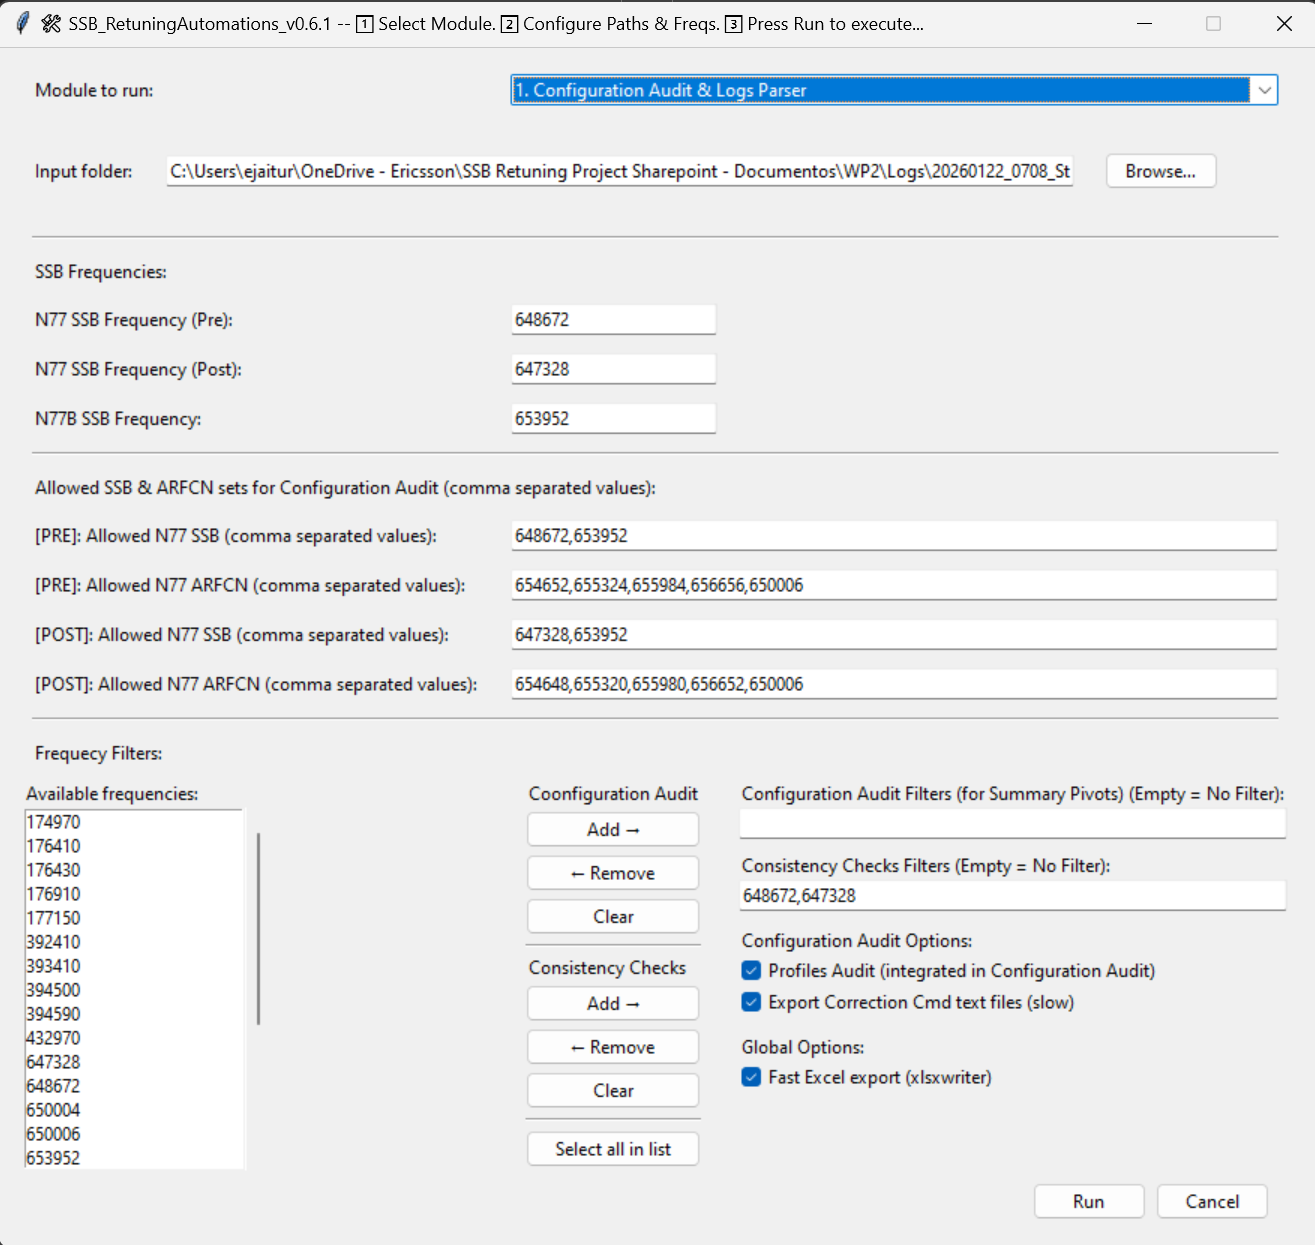
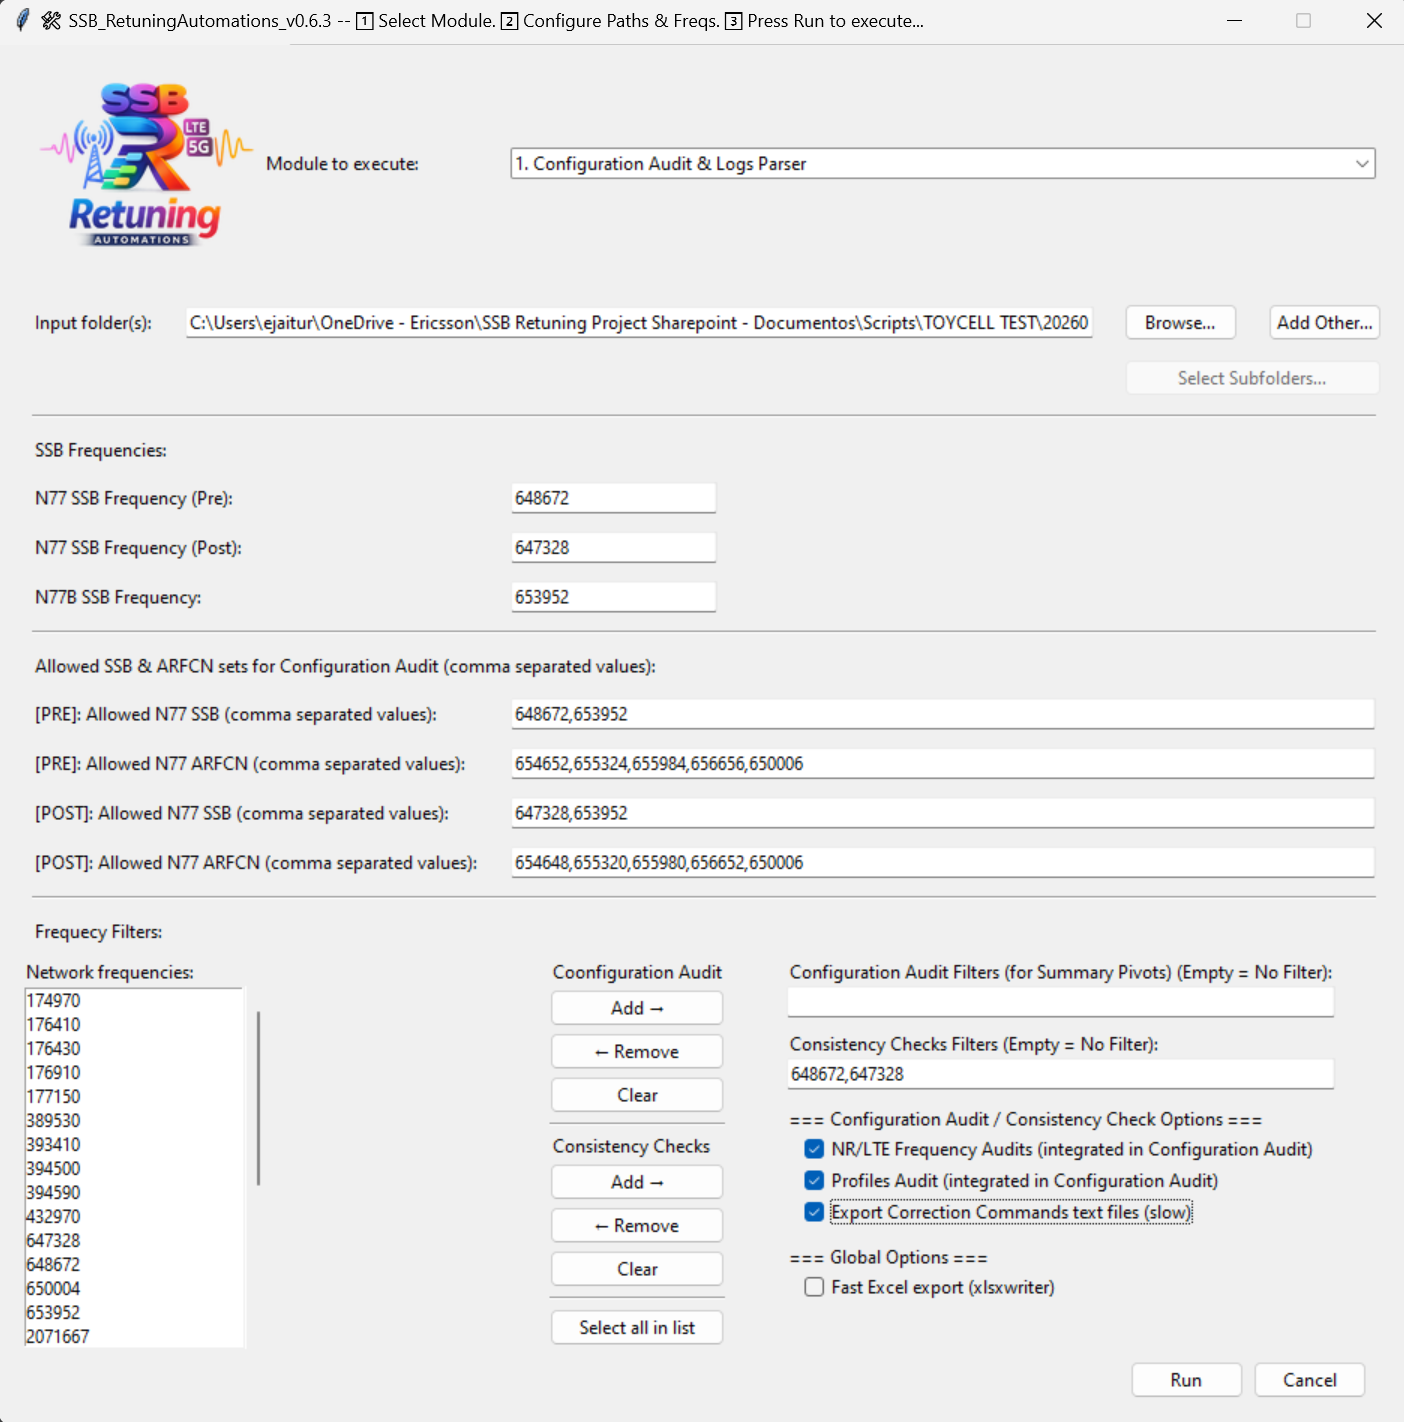
## Release: v0.6.3 - ### Release Date: 2026-02-03
- ### Main Changes:

  - #### 🚨 Breaking Changes:

  - #### 🌟 New Features:
    - Now `ConfigurationAudit`, `ConsistencyCheck (bulk)` and `Final Clean-up` modules supports multiple Input folders from GUI (using Add button or selecting several folders within the same subfolder) and also from CLI (using `--inputs` argument instead of `--input`) to process all of them in batch mode.
    - Now `ConfigurationAudit`, `ConsistencyCheck (bulk)` and `Final Clean-up` modules supports multi-select valid `Step0` subfolders.
    - `NRCellDU` now updates `ssbFrequency` column when the value is 0 and `ssbFrequencyAutoSelected` is not 0.
    - New Flag on GUI (NR/LTE Frequency Audits" and CLI (`--frequency-audit`) to Include/Exclude `NRFrequency' and `GUtranSyncSignalFrequency` Categories on SummaryAudit and PPT.
    - Included Tool logo on GUI launcher dialog.

  - #### 🚀 Enhancements:
    - `ConfigurationAudit` module now detects Market name properly even if it is not delimited by `_` but if it appears after `Step0_` (i.e: 20260114_0728_Step0_Mkt188 → Market Mkt188).
    - Enhanced Correction_Cmd columns in `ConsistencyCheck` module to add the fix commands of header/footer of avery node text file:
      - confb+
      - gs+
      - lt all
      - alt
    - Enhanced GU_Relations and NR_Relations sheets from `ConsistencyCheck` module with additional columns to align with `ConfigurationAudit` module:
      - ExternalGNodeBFunction / ExternalGNBCUCPFunction
[…]

diff --git a/src/SSB_RetuningAutomations.py b/src/SSB_RetuningAutomations.py
@@ -550,19 +550,21 @@ def gui_config_dialog(
     ttk.Label(right_frame, text="Consistency Checks Filters (Empty = No Filter):").grid(row=3, column=0, sticky="w")
     ttk.Entry(right_frame, textvariable=cc_filters_csv_var, width=40).grid(row=4, column=0, sticky="ew")
 
-    # ConfigurationAudit Options
-    configuration_audit_options_label = ttk.Label(right_frame, text="Configuration Audit Options:")
-    frequency_audit_chk = ttk.Checkbutton(right_frame, text="NR/LTE Frequency Audits", variable=frequency_audit_var)
+    # ConfigurationAudit/ConsistencyCheck Options
+    configuration_audit_options_label = ttk.Label(right_frame, text="=== Configuration Audit / Consistency Check Options ===")
+    frequency_audit_chk = ttk.Checkbutton(right_frame, text="NR/LTE Frequency Audits (integrated in Configuration Audit)", variable=frequency_audit_var)
     profiles_audit_chk = ttk.Checkbutton(right_frame, text="Profiles Audit (integrated in Configuration Audit)", variable=profiles_audit_var)
-    export_correction_cmd_chk = ttk.Checkbutton(right_frame, text="Export Correction Cmd text files (slow)", variable=export_correction_cmd_var)
-    global_options_label = ttk.Label(right_frame, text="Global Options:")
-    fast_excel_export_chk = ttk.Checkbutton(right_frame, text="Fast Excel export (xlsxwriter)", variable=fast_excel_export_var)
-    frequency_audit_chk.grid(row=7, column=0, sticky="w")
-    profiles_audit_chk.grid(row=8, column=0, sticky="w")
+    export_correction_cmd_chk = ttk.Checkbutton(right_frame, text="Export Correction Commands text files (slow)", variable=export_correction_cmd_var)
     configuration_audit_options_label.grid(row=6, column=0, sticky="w", pady=(10, 0))
-    export_correction_cmd_chk.grid(row=9, column=0, sticky="w")
+    frequency_audit_chk.grid(row=7, column=0, sticky="w", padx=(10, 0))
+    profiles_audit_chk.grid(row=8, column=0, sticky="w", padx=(10, 0))
+    export_correction_cmd_chk.grid(row=9, column=0, sticky="w", padx=(10, 0))
+
+    # Global Options
+    global_options_label = ttk.Label(right_frame, text="=== Global Options ===")
+    fast_excel_export_chk = ttk.Checkbutton(right_frame, text="Fast Excel export (xlsxwriter)", variable=fast_excel_export_var)
     global_options_label.grid(row=10, column=0, sticky="w", pady=(10, 0))
-    fast_excel_export_chk.grid(row=11, column=0, sticky="w")
+    fast_excel_export_chk.grid(row=11, column=0, sticky="w", padx=(10, 0))
 
     def refresh_export_correction_cmd_option(*_e):
         """Show the export option only when it is relevant (ConfigurationAudit / ConsistencyChecks)."""
